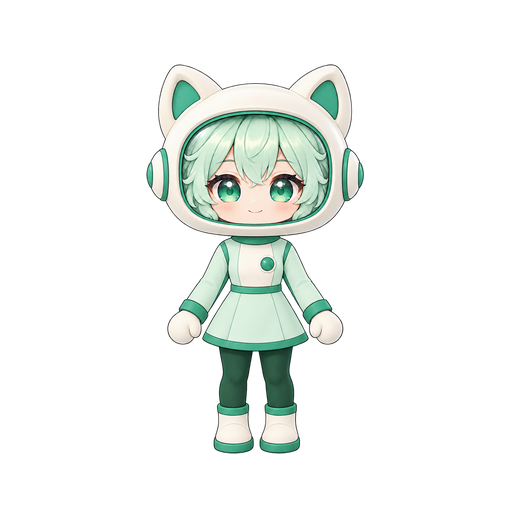
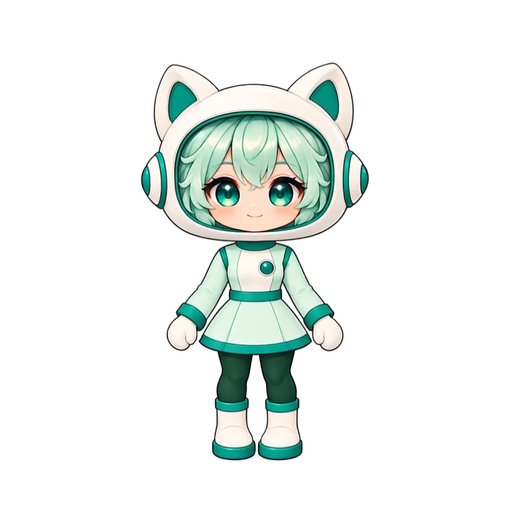
feat: validate and install local video-idle replacement build

Changed region(s): [[0.25, 0.125, 0.7188, 0.9062]]

diff --git a/src/workbuddy_pet/ui/animation.py b/src/workbuddy_pet/ui/animation.py
@@ -18,22 +18,29 @@ class AnimationPlayer(QObject):
         self.timer=QTimer(self);self.timer.setSingleShot(True);self.timer.timeout.connect(self._timeout);self.timer.setTimerType(Qt.TimerType.PreciseTimer)
         self.frames=();self.index=0;self.loop=True;self.visible=True
         self.identity=None;self.content_bounds=None;self.frame_started=0
-        self.stream=None;self.stream_path=None;self.deadline=0;self.error=None
+        self.stream=None;self.stream_path=None;self.deadline=0;self.error=None;self.pending=None;self.loop_range=None;self.ended=False
 
     @property
     def pixmap(self):
         return self.frames[self.index][0] if self.frames else None
 
-    def load(self,pack,state):
-        action=pack.action(state);identity=(pack.key,action.file,action.loop)
+    def load(self,pack,state,*,defer=False):
+        action=pack.action(state);identity=(pack.key,action.file,action.loop,getattr(action,'loop_range',None))
         if identity==self.identity:
             if self.error:raise MaterialError(self.error)
+            if self.stream and self.stream.tail_started.is_set() and not self.ended:
+                self.pending=(pack,state)
+            else:
+                self.pending=None
+                if self.stream and not self.stream.done.is_set():self.stream.exit.clear()
             return
+        if defer and self.stream and not self.ended:
+            self.pending=(pack,state);self.stream.exit.set();return
         if getattr(pack, 'schema', 1) == 3:
             self.clear(notify=False)
             self.identity=identity;self.loop=action.loop;self.content_bounds=pack.anchor
-            self.stream_path=pack.root/action.file
-            if self.visible:self.stream=FrameStream(self.stream_path,self.loop);self.timer.start(1)
+            self.stream_path=pack.root/action.file;self.loop_range=getattr(action,'loop_range',None)
+            if self.visible:self.stream=FrameStream(self.stream_path,self.loop,self.loop_range);self.timer.start(1)
             self.bounds_changed.emit();self.changed.emit()
             return
         frames=decode_animation(pack.root/action.file);prepared=[]
@@ -52,7 +59,7 @@ class AnimationPlayer(QObject):
     def clear(self,*,notify=True):
         had_frames=bool(self.frames or self.stream_path);self.timer.stop()
         if self.stream:self.stream.close()
-        self.stream=None;self.stream_path=None;self.deadline=0;self.error=None
+        self.stream=None;self.stream_path=None;self.deadline=0;self.error=None;self.pending=None;self.loop_range=None;self.ended=False
         self.frames=();self.index=0;self.identity=None;self.content_bounds=None
         if notify and had_frames:self.bounds_changed.emit();self.changed.emit()
 
@@ -60,9 +67,10 @@ class AnimationPlayer(QObject):
         if self.visible == value:return
         self.visible=value
         if self.stream_path:
+            self.pending=None;self.ended=False
             if self.stream:self.stream.close()
             self.stream=None;self.deadline=0
-            if value:self.stream=FrameStream(self.stream_path,self.loop);self.timer.start(1)
+            if value:self.stream=FrameStream(self.stream_path,self.loop,self.loop_range);self.timer.start(1)
         elif value:
             self.frame_started=time.perf_counter()
             self.deadline=self.frame_started+(self.frames[self.index][1]/1000 if self.frames else 0)
@@ -111,7 +119,11 @@ class AnimationPlayer(QObject):
             if self.error:return
             if self.deadline>now:
                 self.timer.start(max(1,math.ceil((self.deadline-now)*1000)));return
-            self.finished.emit()
+            self.ended=True
+            if self.pending:
+                pack,state=self.pending
+                self.clear(notify=False);self.load(pack,state)
+            else:self.finished.emit()
             return
         self.timer.start(max(1,math.ceil((self.deadline-now)*1000)) if self.deadline>now else 5)
 

diff --git a/tools/build_windows.py b/tools/build_windows.py
@@ -42,8 +42,11 @@ def fix_native_icu(dist: Path) -> None:
 def main():
     parser = argparse.ArgumentParser()
     parser.add_argument("--work", type=Path, default=Path("build/windows"))
+    parser.add_argument("--dist-root",type=Path,help="Build beside a running installation without overwriting its loaded files")
     args = parser.parse_args()
     project = Path(__file__).resolve().parents[1]
+    dist_root=(args.dist_root or project/"dist").absolute()
+    dist_root.mkdir(parents=True,exist_ok=True)
     work = args.work.absolute()
     work.mkdir(parents=True, exist_ok=True)
     os.environ.setdefault("QT_QPA_PLATFORM", "offscreen")
@@ -60,9 +63,9 @@ def main():
                     '--add-data',str(project/'src/workbuddy_pet/catalog.json')+';workbuddy_pet',
                     '--add-data',str(project/'src/workbuddy_pet/assets')+';workbuddy_pet/assets',
                     '--add-data',str(project/'src/workbuddy_pet/update_install.ps1')+';workbuddy_pet',
-                    "--distpath", str(project / "dist"), "--workpath", str(work / "pyinstaller"),
+                    "--distpath", str(dist_root), "--workpath", str(work / "pyinstaller"),
                     "--specpath", str(work), str(project / "launch.py")], cwd=project, check=True)
-    dist = project / "dist/WorkBuddyDesktopPet"
+    dist = dist_root / "WorkBuddyDesktopPet"
     fix_native_icu(dist)
     (dist/'仅卡片启动.vbs').write_text('Set shell = CreateObject("WScript.Shell")\nSet fso = CreateObject("Scripting.FileSystemObject")\n'
         'exe = fso.BuildPath(fso.GetParentFolderName(WScript.ScriptFullName), "WorkBuddyDesktopPet.exe")\n'
@@ -89,10 +92,10 @@ def main():
                     target = dist / "licenses" / package / source.name
                     target.parent.mkdir(parents=True, exist_ok=True)
                     shutil.copy2(source, target)
-    archive = shutil.make_archive(str(project / "dist" / f"workbuddy-desktop-pet-{__version__}-windows-x64"), "zip",
-                                  root_dir=project / "dist", base_dir="WorkBuddyDesktopPet")
+    archive = shutil.make_archive(str(dist_root / f"workbuddy-desktop-pet-{__version__}-windows-x64"), "zip",
+                                  root_dir=dist_root, base_dir="WorkBuddyDesktopPet")
     sha = hashlib.file_digest(Path(archive).open("rb"), "sha256").hexdigest()
-    (project / "dist/SHA256SUMS.txt").write_text(sha + "  " + Path(archive).name + "\n", encoding="utf-8")
+    (dist_root / "SHA256SUMS.txt").write_text(sha + "  " + Path(archive).name + "\n", encoding="utf-8")
     print(json.dumps({"archive": archive, "sha256": sha}, indent=2))
 
 

diff --git a/src/workbuddy_pet/materials.py b/src/workbuddy_pet/materials.py
@@ -104,6 +104,7 @@ def decode_animation(path: Path) -> tuple[Frame, ...]:
 class Action:
     file: str
     loop: bool = True
+    loop_range: tuple[int, int] | None = None
 
 
 @dataclass(frozen=True)
@@ -171,6 +172,12 @@ def validate_pack(root: Path, *, decode=True, key='') -> CharacterPack:
                 with path.open('rb') as stream:
                     if hashlib.file_digest(stream, 'sha256').hexdigest() != hashes[name]:
                         raise MaterialError('素材 SHA-256 校验失败')
+            loop_range = item.get('loop_range')
+            if loop_range is not None:
+                if (schema != 3 or not item.get('loop') or not isinstance(loop_range,list) or len(loop_range)!=2
+                    or any(type(n) is not int for n in loop_range) or not 0 < loop_range[0] < loop_range[1] < 240):
+                    raise MaterialError('loop_range须为schema3循环动作的有效中段[起始帧,结束帧)，且保留进入及退出段')
+                loop_range=tuple(loop_range)
             if schema == 3 and path.stat().st_size > 64 * 1024 * 1024:
                 raise MaterialError('长动画单文件不得超过64MiB')
             if decode and name not in seen:
@@ -195,10 +202,12 @@ def validate_pack(root: Path, *, decode=True, key='') -> CharacterPack:
                         raise MaterialError('整套角色的解码体积超过上限，请拆分画质或减少帧数')
                 if schema >= 2 and not 8 <= count <= (240 if schema == 3 else 16):
                     raise MaterialError('完整互动包每段需要8–240帧' if schema == 3 else '完整互动包每段需要8–16帧')
+                if loop_range and loop_range[1]>=count:
+                    raise MaterialError('loop_range必须在末尾保留退出帧')
                 if schema == 3 and elapsed > 12000:
                     raise MaterialError('长动画每段不得超过12秒')
                 seen.add(name)
-            parsed[state] = Action(name, item.get('loop', True))
+            parsed[state] = Action(name, item.get('loop', True),loop_range)
         return CharacterPack(key, root, data['name'], data['author'], quality, data['license'], parsed, schema, anchor)
     except (OSError, ValueError, TypeError, KeyError) as error:
         if isinstance(error, MaterialError):

diff --git a/tests/test_long_animation.py b/tests/test_long_animation.py
@@ -117,3 +117,37 @@ def test_long_click_waits_for_authored_end_and_keeps_urgent_interrupts(tmp_path,
     now=time.time();controller.consume([Event('start',now,'s','UserPromptSubmit'),Event('wait',now+.01,'s','PermissionRequest')])
     assert controller.active_interaction is None
     controller.shutdown()
+
+
+def test_segment_worker_enters_once_loops_forward_and_exits_tail(tmp_path,monkeypatch):
+    from workbuddy_pet.materials import Frame
+    monkeypatch.setattr('workbuddy_pet.ui.frame_stream.iter_animation',lambda *a,**k:iter(Frame((1,1),bytes((i,0,0,255)),42) for i in range(8)))
+    stream=FrameStream(tmp_path/'unused',True,(2,6));seen=[]
+    for _ in range(14):seen.append(stream.frames.get(timeout=2).rgba[0])
+    assert seen[:6]==list(range(6))
+    assert all(x in (2,3,4,5) for x in seen[6:])
+    stream.exit.set()
+    while not stream.done.is_set() or not stream.frames.empty():
+        try:seen.append(stream.frames.get(timeout=.1).rgba[0])
+        except __import__('queue').Empty:pass
+    assert stream.tail_started.is_set() and seen[-2:]==[6,7]
+    assert 0 not in seen[6:]
+
+
+def test_deferred_switch_finishes_tail_and_latest_request_wins(tmp_path,qt_app):
+    data=pack(tmp_path);data['actions']['idle']['loop_range']=[4,12]
+    (tmp_path/'manifest.json').write_text(json.dumps(data));character=validate_pack(tmp_path)
+    player=AnimationPlayer();player.load(character,'idle')
+    wait_until(qt_app,lambda:bool(player.frames))
+    player.load(character,'thinking',defer=True);old=player.stream
+    player.load(character,'working',defer=True)
+    assert player.identity[1]=='actions/idle.png'
+    wait_until(qt_app,lambda:player.identity[1]=='actions/working.png')
+    assert old.tail_started.is_set() and old.done.is_set()
+    player.clear()
+
+
+def test_loop_range_must_leave_real_entry_and_exit(tmp_path):
+    data=pack(tmp_path);data['actions']['idle']['loop_range']=[0,20]
+    (tmp_path/'manifest.json').write_text(json.dumps(data))
+    with pytest.raises(MaterialError):validate_pack(tmp_path)

diff --git a/src/workbuddy_pet/ui/frame_stream.py b/src/workbuddy_pet/ui/frame_stream.py
@@ -7,18 +7,20 @@ _SLOTS = threading.BoundedSemaphore(2)
 
 
 class FrameStream:
-    def __init__(self, path, loop):
+    def __init__(self, path, loop, loop_range=None):
         self.frames = queue.Queue(6)
         self.stop = threading.Event()
         self.done = threading.Event()
+        self.exit = threading.Event()
+        self.tail_started = threading.Event()
         self.error = None
-        self.thread = threading.Thread(target=self._run, args=(path, loop), daemon=True)
+        self.thread = threading.Thread(target=self._run, args=(path, loop, loop_range), daemon=True)
         self.thread.start()
 
     def close(self):
         self.stop.set()
 
-    def _run(self, path, loop):
+    def _run(self, path, loop, loop_range):
         acquired = False
         try:
             while not self.stop.is_set():
@@ -27,8 +29,14 @@ class FrameStream:
                     break
             if not acquired:
                 return
+            first = True
             while not self.stop.is_set():
-                for frame in iter_animation(path, long=True):
+                for index,frame in enumerate(iter_animation(path, long=True)):
+                    if loop_range:
+                        if not first and index < loop_range[0]:continue
+                        if index == loop_range[1]:
+                            if not self.exit.is_set():break
+                            self.tail_started.set()
                     if self.stop.is_set():
                         return
                     while not self.stop.is_set():
@@ -37,8 +45,9 @@ class FrameStream:
                             break
                         except queue.Full:
                             pass
-                if not loop:
+                if not loop or (self.exit.is_set() and (not loop_range or self.tail_started.is_set())):
                     return
+                first = False
         except Exception as error:
             self.error = str(error)
         finally:

diff --git a/tools/verify_package.py b/tools/verify_package.py
@@ -13,11 +13,12 @@ def main():
     parser = argparse.ArgumentParser()
     parser.add_argument("--scratch", type=Path, required=True)
     parser.add_argument('--interactive-pack',type=Path,help='额外验证完整15动作素材的冻结导入和播放')
+    parser.add_argument("--dist-root",type=Path,help="Verify a staged build without touching a running installation")
     args = parser.parse_args()
     project = Path(__file__).resolve().parents[1]
     sys.path.insert(0, str(project / "src"))
     from workbuddy_pet.integration import powershell_command
-    exe = project / "dist/WorkBuddyDesktopPet/WorkBuddyDesktopPet.exe"
+    exe = (args.dist_root or project/"dist") / "WorkBuddyDesktopPet/WorkBuddyDesktopPet.exe"
     root = args.scratch.absolute() / ("verify-" + uuid.uuid4().hex)
     payload = json.dumps({"session_id": "synthetic-packaged-test", "prompt": "NEVER-WRITE-THIS"}).encode()
     result = subprocess.run([str(exe), "--root", str(root), "--hook", "UserPromptSubmit"],

diff --git a/src/workbuddy_pet/app.py b/src/workbuddy_pet/app.py
@@ -571,7 +571,7 @@ class Controller(QObject):
         self.pet.set_display(display)
         self.bubble.set_display(display)
         if self.active_pack and self.pet.isVisible():
-            try:self.player.load(self.active_pack,action)
+            try:self.player.load(self.active_pack,action,defer=not self.active_interaction and action not in ('review','waiting','failed'))
             except MaterialError:
                 self.player.clear();self.active_pack=None
                 self.pet.timer.start()

diff --git a/src/workbuddy_pet/__init__.py b/src/workbuddy_pet/__init__.py
@@ -1,3 +1,3 @@
 """WorkBuddy companion; importing the collector never loads Qt."""
 
-__version__ = "0.6.2"
+__version__ = "0.6.3"

diff --git a/docs/project-context.md b/docs/project-context.md
@@ -5,7 +5,7 @@
 ## 当前基线
 
 - 公开仓库：[zhujiaowo-sudo/workbuddy-desktop-pet](https://github.com/zhujiaowo-sudo/workbuddy-desktop-pet)。仅面向 WorkBuddy，运行于 Windows 10/11 x64。
-- 最新发布程序 **v0.6.2**；默认薄荷星伴动画包 **v1.4.0**。程序与外部动画独立下载、更新，自制素材不会随程序更新被替换。
+- 最新公开发布程序 **v0.6.2**；公开默认薄荷星伴动画包 **v1.4.0**。本机已按用户明确要求更新至**0.6.3本地预览构建**，启用**1.5.0-preview.1视频待机验证包**；仅idle替换，其他15段仍为1.4.0原字节。本地构建未创建公开Release。程序与外部动画独立下载、更新，自制素材不会随程序更新被替换。
 - Python 3.12、PySide6、Pillow，PyInstaller 打包；事件采集、纯状态转换、界面保持分离。优先使用本机可读取的 WorkBuddy 能力。
 - v0.6.2 已完成157项 Windows 回归及冻结程序验证；动画另有完整帧、循环和原生播放检查。证据见[兼容性记录](compatibility.md#v062-动画结构与收起入口)。
 
@@ -39,7 +39,7 @@
 ## 素材与动画维护
 
 - 完整新版包保留 **15个必填动作**，另可选 `idle_scratch`；旧15段包继续兼容，可选扩展需新版程序。公开格式、尺寸、帧数、命名、导入约束以[素材制作说明](materials.md)和[Schema](pet-pack.schema.json)为准。
-- 轻量256×256、高清512×512，完整包每段8–16帧、每帧40–200ms；完整高清总解码上限7200万像素，轻量/旧包/单段仍为6400万。
+- schema1/2保持旧约束：schema2轻量256、高清512，每段8–16帧、40–200ms，高清全包72M像素。schema3新增512/720、8–240帧、20–200ms、每段最多12秒和有界后台队列。详见素材说明；不能用新限制默许旧包超限。
 - 默认“薄荷星伴”须按 Buddy娘 **CC-BY-4.0** 署名；蓝色机器人创作模板独立使用 CC0。不要混淆许可，见[NOTICE](../NOTICE.md)。
 - v1.4.0待机与挠头共用基础身体，眼睛局部切换、手臂按固定部件旋转；播放器按素材实际帧播放，取消整图叠帧和动作间淡化，避免多重五官及残影。
 - 用户曾指出脸/腿变形、胳膊大小不一及重叠。以后动画改动必须检查**完整循环、动作衔接、原生渲染、共同身体结构**；静态关键帧或元数据通过不能代替动态验收。草稿不得当成修复成品交付。
@@ -50,3 +50,11 @@
 - 不提交真实对话、账户数据、日志、配置、数据库、票据或个人路径。自动测试使用合成数据。
 - README 顶部目前是明确标注的 **DEMO 动图占位**。后续录制操作演示，替换为 `docs/assets/demo.gif`；使用合成数据并保留演示标识，不将动画验收图当作完整应用演示。
 - 上一轮仓库展示整理只更新文档；当前用户已授权白龙参考审查和动效开发，并选择新增长动画格式。进行中的设计见[长动画设计](plans/2026-10-28-long-animation-design.md)，参考审查见[资料清单](reference-animation-review.md)。当前发布仍为v0.6.2；开发代码增加schema3支持，尚未随正式版本发布，也没有把旧薄荷星伴素材冒充高帧率新版。
+
+## 本机待机替换（2026-10-28）
+
+用户明确要求直接替换本机桌宠。已通过170项回归和冻结程序导入/GUI/Hook验证，沿用现有安装位置完成0.6.2→0.6.3更新并重启；实际运行状态为idle且新动画已加载。大小、位置、卡片位置、自启及账户授权开关保持。旧程序、设置备份及旧素材保留，没有改动WorkBuddy本身或其他桌宠。
+
+本机素材源为用户提供的HappyHorse视频，经稳定头盔特征、脚底注册、白底透明处理和正向选段，输出80帧/3333ms。首尾嘴型与细节仍有差异，用户在知悉这一限制后明确要求安装。先前分件和挥手验证稿因关节问题未通过，不得重新启用为正式素材。其余15段未重制。
+
+这是本机替换，不代表已完成全部动效重制或公开发布。后续正式程序版本需高于0.6.3，以避免本机更新器因同号而跳过。

diff --git a/docs/plans/2026-10-28-long-animation-design.md b/docs/plans/2026-10-28-long-animation-design.md
@@ -8,7 +8,7 @@
 - schema 3：light 512²、hd 720²；每段8–240帧、每帧20–200ms、单段最多12秒。必填统一 anchor。单动作压缩文件64MiB、解压文件总上限512MiB、累计解码工作量20亿像素；这些是输入限制，不代表常驻内存。
 - 导入逐帧校验，避免同时保存全段RGBA。播放后台解码，有界6帧队列；GUI只提交实际姿势，不做整图淡化。后台最多2个解码任务同时进入解码器；取消不在GUI等待线程退出。
 - 播放采用perf_counter累计期限，晚到追赶、隐藏停止，恢复从当前动作重新开始。旧包仍使用原有同步加载路径；旧包回调调度修复累计漂移，手动advance保持逐帧接口。
-- 本次格式先支持完整循环/单次；进入一次、中段循环、自然尾段需要新的分段协议及调度衔接，当前不得声称支持。
+- 已支持完整循环/单次；schema3循环动作可选loop_range字段，后台按进入一次、中段正向循环、请求退出后自然尾段运行。控制器对普通状态保留最新待播项，紧急状态和主动交互仍可即时打断。分段能力通过独立测试；当前本机视频待机包未提供loop_range，不冒称它具备自然退出片段。
 
 ## 参考取舍
 
@@ -17,3 +17,7 @@
 ## 验证
 
 回归schema1/2、schema3完整导入与拒绝坏帧/越界/超时/错误尺寸；队列上限、取消、真实Qt定时连续三轮、隐藏恢复及高频切换。使用合成数据，不操作账户。角色形态仍需真实原生连续动作验收，不以格式通过替代艺术质量通过。
+
+## 用户否决的素材方案（2026-10-28）
+
+用户指出新分件稿各关节脱节、比例不正确。该稿未通过验收，已从生产源码和art目录移除，未发布、未替换本机角色。不得将该套手臂/腿部拼装稿作为默认素材。下一步用完整角色原画保持统一比例，再验证连续形变和完整动作；新的静态原画也不等于动态验收完成。
